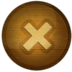
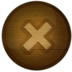
key style

diff --git a/css/bigScreen.css b/css/bigScreen.css
@@ -388,7 +388,7 @@ label{
     top:20px;
 }
 #keyIcon{
-    width: 39px;
+    width: 70px;
     height: 70px;
     margin-top: 30px;
     margin-right: 100px;
